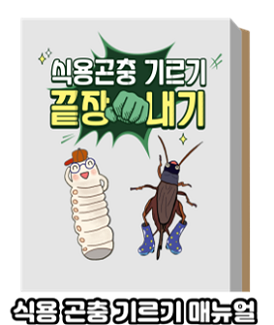
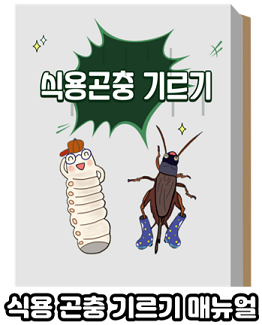
add title png

diff --git a/index.html b/index.html
@@ -44,9 +44,7 @@
                     <div class="col-lg-12 col-md-12">
                         <div class="card">
                             <h2 class="card-title text-center">
-                                &nbsp;<br>
-                                곤충으로 그린(Green) 미래<br>
-                                &nbsp;
+                                <img src="./src/assets/images/custom/title.png" alt="스타벅스 푸드 주문하기" />
                             </h4>
                         </div>
                     </div>
